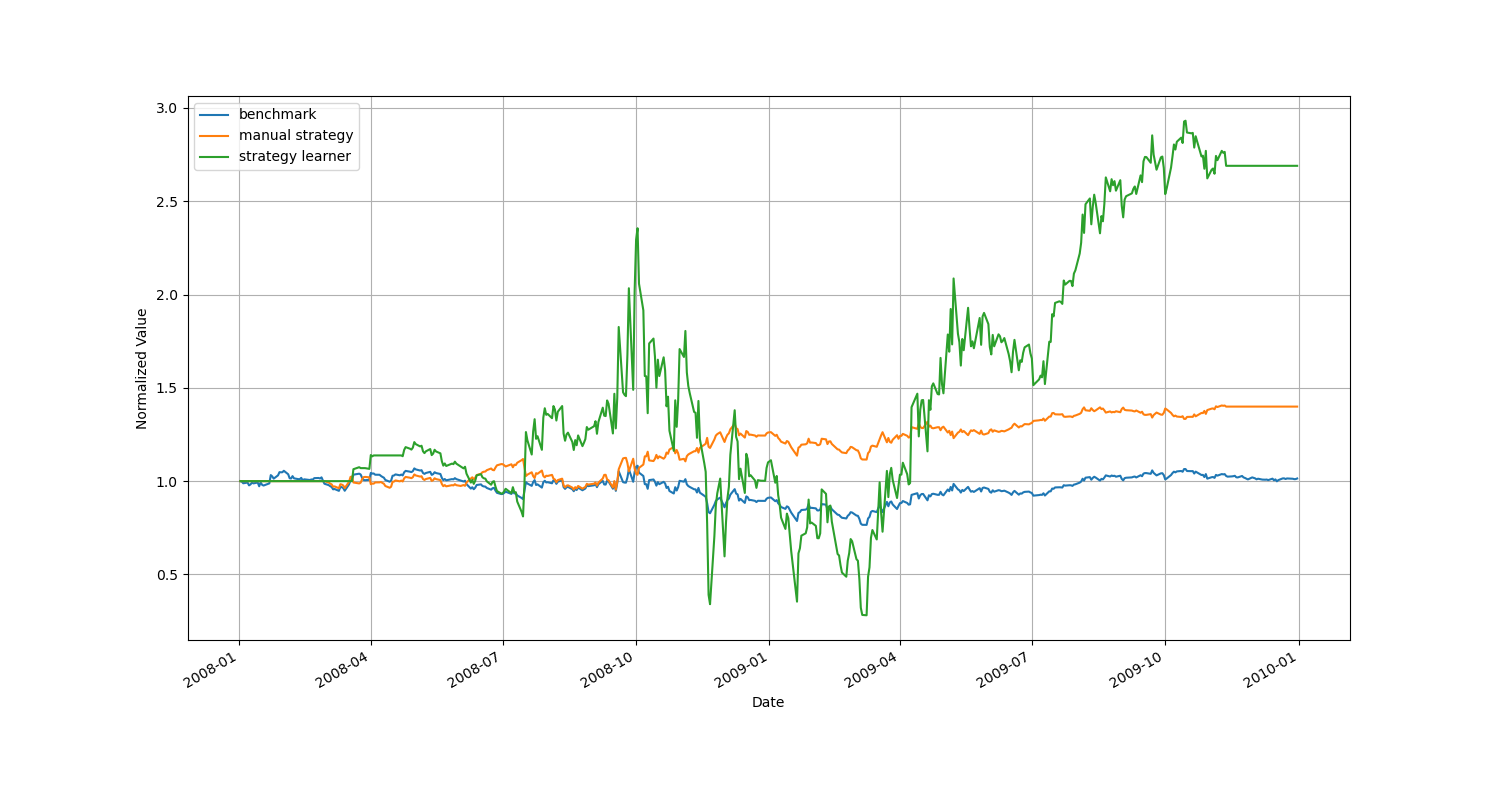
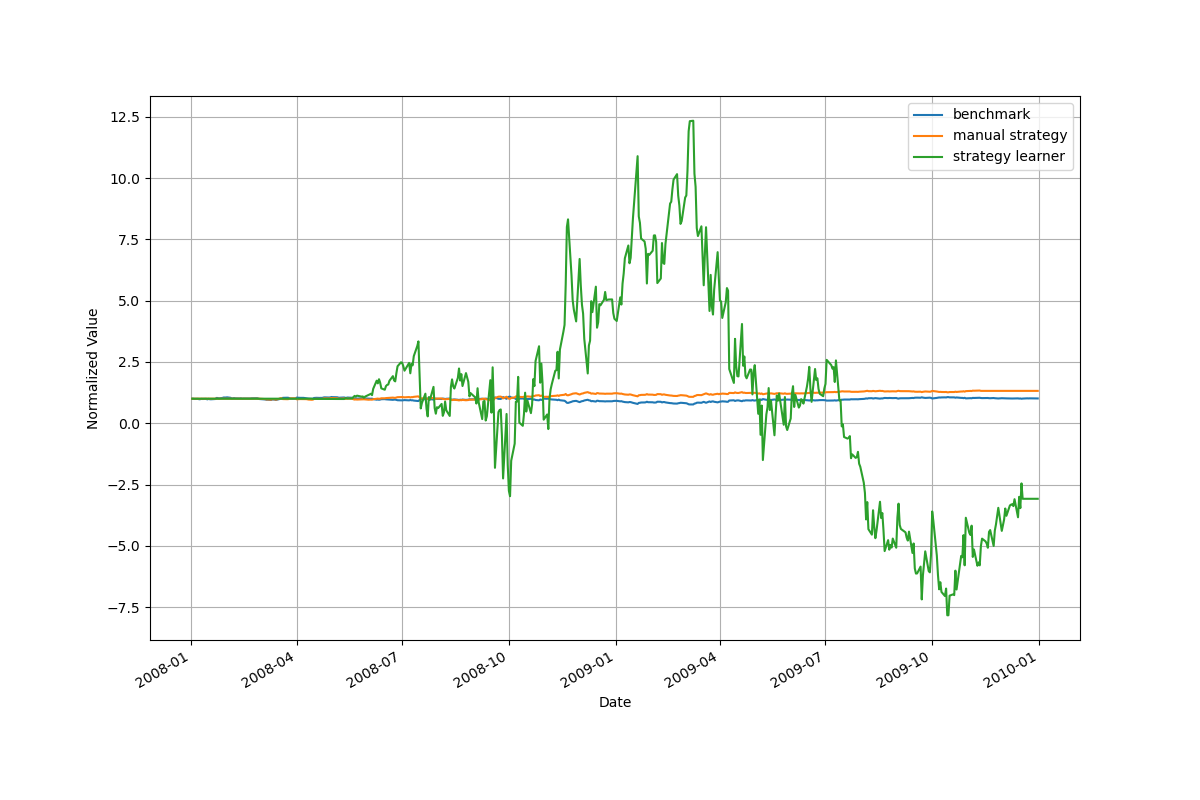
wip fixing bugs

diff --git a/strategy_evaluation/StrategyLearner.py b/strategy_evaluation/StrategyLearner.py
@@ -39,7 +39,6 @@ import numpy as np
 
 
 
-
 class StrategyLearner(object):
     """  		  	   		     		  		  		    	 		 		   		 		  
     A strategy learner that can learn a trading policy using the same indicators used in ManualStrategy.  		  	   		     		  		  		    	 		 		   		 		  
@@ -67,7 +66,9 @@ class StrategyLearner(object):
         self.commission = commission
         # self.learner = q.QLearner(alpha=0.2, rar=0.9, radr=0.999, num_states=self.num_bins ** 4, num_actions=3, dyna=0)
         # self.learner = q.QLearner(alpha=0.2, gamma=0.5, rar=0.5, radr=0.99, num_states=self.num_bins ** 3, num_actions=3, dyna=0)
-        self.learner = q.QLearner(num_states=self.num_bins**2 * 3, num_actions=2, dyna=1000)
+
+        # self.learner = q.QLearner(num_states=self.num_bins**2 * 3, num_actions=2, dyna=1000)
+        self.learner = q.QLearner(alpha=0.5, gamma=0.5, rar=0.5, radr=0.99, num_states=self.num_bins ** 2 * 3 * 2, num_actions=3, dyna=1000)
 
         self.sym = None
         self.price_data = None
@@ -141,7 +142,7 @@ class StrategyLearner(object):
     def update_position(self, action):
         if action == 0:
             trade = -1000 - 1000 * self.position
-            self.position = -1
+            self.position = 0
         elif action == 1:
             trade = 1000 - 1000 * self.position
             self.position = 1
@@ -174,32 +175,46 @@ class StrategyLearner(object):
         price_data = ut.get_data([symbol], pd.date_range(sd, ed), addSPY=True)
         self.setup(pd.DataFrame(price_data[symbol]))
 
-        for i in range(0, 1):
-            date = self.states.first_valid_index()
-            s0 = int(self.states[date])
-            a = self.learner.querysetstate(s0)
+        states_df = pd.DataFrame(self.states.loc[self.states.first_valid_index():])
+        p = price_data[self.sym][self.states.first_valid_index()]
+        a = 2
+        for row in states_df.iterrows():
+            date = row[0]
+            p_prime = price_data[self.sym][date]
+            delta = p_prime - p
+            r = (self.position*2-1) * delta
+            if a != 2:  # trade made, pay fees
+                r -= self.commission
+                r -= abs(self.impact * p_prime)
+
+            s = int(self.states[date]) + (self.position * self.num_bins ** 2 * 3)
+            a = self.learner.query(s, r)
             self.update_position(a)
-            p = price_data[self.sym][date]
-            date += dt.timedelta(days=1)
+            p = p_prime
 
-            date_final = self.states.last_valid_index()
-            while date <= date_final:
-                if date in price_data[self.sym]:
-                    p_prime = price_data[self.sym][date]
-                    delta = p_prime - p
-                    r = self.position * delta
-                    # if r > 0:
-                    #     r = 1
-                    # elif r < 0:
-                    #     r = -1
-                    # else:
-                    #     r = 0
-
-                    s = int(self.states[date])
-                    a = self.learner.query(s, r)
-                    self.update_position(a)
-                    p = p_prime
-                date += dt.timedelta(days=1)
+        # for i in range(0, 1):
+        #     date = self.states.first_valid_index()
+        #     s0 = int(self.states[date])
+        #     a = self.learner.querysetstate(s0)
+        #     self.update_position(a)
+        #     p = price_data[self.sym][date]
+        #     date += dt.timedelta(days=1)
+        #
+        #     date_final = self.states.last_valid_index()
+        #     while date <= date_final:
+        #         if date in price_data[self.sym]:
+        #             p_prime = price_data[self.sym][date]
+        #             delta = p_prime - p
+        #             r = self.position * delta
+        #             if a != 2: # trade made
+        #                 r -= self.commission
+        #                 r -= abs(self.impact * p_prime)
+        #
+        #             s = int(self.states[date])
+        #             a = self.learner.query(s, r)
+        #             self.update_position(a)
+        #             p = p_prime
+        #         date += dt.timedelta(days=1)
   		  	   		     		  		  		    	 		 		   		 		  
     # this method should use the existing policy and test it against new data  		  	   		     		  		  		    	 		 		   		 		  
     def testPolicy(  		  	   		     		  		  		    	 		 		   		 		  
@@ -249,7 +264,18 @@ class StrategyLearner(object):
                 if trade != 0:
                     output['Date'].append(date - dt.timedelta(days=1))
                     output['Trade'].append(trade)
+
+
+        # output['Trade'] = []
+        # output['Date'] = []
+
         trades = pd.DataFrame(data=output['Trade'], index=output['Date'], columns=[symbol])
+
+        if len(trades.values) == 0:
+            date0 = self.price_data.index[0]
+            val0 = 2000
+            new_df = pd.DataFrame([val0], [date0], columns=[symbol])
+            trades = trades.append(new_df)
         return trades  		  	   		     		  		  		    	 		 		   		 		  
   		  	   		     		  		  		    	 		 		   		 		  
   		  	   		     		  		  		    	 		 		   		 		  

diff --git a/strategy_evaluation/testproject.py b/strategy_evaluation/testproject.py
@@ -12,19 +12,35 @@ def author():
 	return 'tkim338'
 
 if __name__ == "__main__":
-	# experiment1.run()
+	experiment1.run()
 	# experiment2.run()
-	man = ms.ManualStrategy()
-	in_test = man.in_sample_test()
-	out_test = man.out_sample_test()
-
-	in_test_val = in_test.values
-	out_test_val = out_test.values
-	plt.clf()
-	plt.figure(figsize=(15,8))
-	plt.plot(in_test_val)
-	plt.plot(out_test_val)
-	plt.legend(['In-sample performance', 'Out-of-sample performance'])
-	plt.xlabel('Time from start [day]')
-	plt.ylabel('Normalized Value (relative to benchmark)')
-	plt.savefig('in_out_comparison.png')
+	# man = ms.ManualStrategy()
+	# in_test, in_ret_bm, in_ret_man = man.in_sample_test()
+	# out_test, out_ret_bm, out_ret_man = man.out_sample_test()
+	#
+	# print(['In-sample, benchmark cumulative return: ', in_ret_bm[0]])
+	# print(['In-sample, benchmark mean daily return: ', in_ret_bm[1]])
+	# print(['In-sample, benchmark std. dev. of daily return: ', in_ret_bm[2]])
+	# print('')
+	# print(['In-sample, manual strategy cumulative return: ', in_ret_man[0]])
+	# print(['In-sample, manual strategy mean daily return: ', in_ret_man[1]])
+	# print(['In-sample, manual strategy std. dev. of daily return: ', in_ret_man[2]])
+	# print('')
+	# print(['Out-of-sample, benchmark cumulative return: ', out_ret_bm[0]])
+	# print(['Out-of-sample, benchmark mean daily return: ', out_ret_bm[1]])
+	# print(['Out-of-sample, benchmark std. dev. of daily return: ', out_ret_bm[2]])
+	# print('')
+	# print(['Out-of-sample, manual strategy cumulative return: ', out_ret_man[0]])
+	# print(['Out-of-sample, manual strategy mean daily return: ', out_ret_man[1]])
+	# print(['Out-of-sample, manual strategy std. dev. of daily return: ', out_ret_man[2]])
+	#
+	# in_test_val = in_test.values
+	# out_test_val = out_test.values
+	# plt.clf()
+	# plt.figure(figsize=(15,8))
+	# plt.plot(in_test_val)
+	# plt.plot(out_test_val)
+	# plt.legend(['In-sample performance', 'Out-of-sample performance'])
+	# plt.xlabel('Time from start [day]')
+	# plt.ylabel('Normalized Value (relative to benchmark)')
+	# plt.savefig('in_out_comparison.png')

diff --git a/strategy_evaluation/ManualStrategy.py b/strategy_evaluation/ManualStrategy.py
@@ -152,24 +152,23 @@ class ManualStrategy:
                 output_plot.plot([index, index], [y_min, y_max], 'k', linewidth=1)
 
         plt.savefig(filename)
-        return vals_man['manual strategy'] / vals_bm['benchmark']
+        output_df = vals_man['manual strategy'] / vals_bm['benchmark']
+        output_df = output_df.fillna(method='bfill')
+        output_df = output_df.fillna(method='ffill')
+        ret_bm = msc.compute_ret(vals_bm)
+        ret_man = msc.compute_ret(vals_man)
+        return output_df, ret_bm, ret_man
 
     def in_sample_test(self):
         sym = 'JPM'
         start_date = dt.datetime(2008, 1, 1)
         end_date = dt.datetime(2009, 12, 31)
         filename = 'in-sample-test.png'
-        df = self.sample_test(sym, start_date, end_date, filename)
-        df = df.fillna(method='bfill')
-        df = df.fillna(method='ffill')
-        return df
+        return self.sample_test(sym, start_date, end_date, filename)
 
     def out_sample_test(self):
         sym = 'JPM'
         start_date = dt.datetime(2010, 1, 1)
         end_date = dt.datetime(2011, 12, 31)
         filename = 'out-sample-test.png'
-        df = self.sample_test(sym, start_date, end_date, filename)
-        df = df.fillna(method='bfill')
-        df = df.fillna(method='ffill')
-        return df
+        return self.sample_test(sym, start_date, end_date, filename)

diff --git a/strategy_evaluation/experiment2.py b/strategy_evaluation/experiment2.py
@@ -31,7 +31,7 @@ def run():
 	output_df_list = []
 	impacts = [0, 0.005, 0.01, 0.1]
 	for imp in impacts:
-		learner = sl.StrategyLearner()
+		learner = sl.StrategyLearner(impact=imp)
 		learner.add_evidence(symbol=sym, sd=start_date, ed=end_date)
 		trades_sl = learner.testPolicy(symbol=sym, sd=start_date, ed=end_date, sv=100000)
 		vals_sl = msc.compute_portvals(trades_sl, start_val=100000, commission=0, impact=imp)
@@ -47,7 +47,7 @@ def run():
 	output = pd.DataFrame([vals_bm['benchmark'], output_df_list[0]['impact: '+str(impacts[0])], output_df_list[1]['impact: '+str(impacts[1])], output_df_list[2]['impact: '+str(impacts[2])], output_df_list[3]['impact: '+str(impacts[3])]]).transpose()
 	output = output.fillna(method='ffill')
 	output = output.fillna(method='bfill')
-	output_plot = output.plot(figsize=(15,8))
+	output_plot = output.plot(figsize=(12,8))
 	output_plot.set_xlabel('Date')
 	output_plot.set_ylabel('Normalized Value')
 	output_plot.grid(b=True, which='both', axis='both')

diff --git a/strategy_evaluation/marketsimcode.py b/strategy_evaluation/marketsimcode.py
@@ -51,7 +51,9 @@ def compute_portvals(
 				holdings[sym] += trade
 			else:
 				holdings[sym] = trade
-			holdings['cash'] -= trade * sym_val * (1 + impact)
+			# holdings['cash'] -= trade * sym_val * (1 + impact)
+			holdings['cash'] -= trade * sym_val
+			holdings['cash'] -= abs(trade) * sym_val * impact
 		return holdings
 
 	def get_portfolio_value(curr_holdings, date):
@@ -85,6 +87,18 @@ def compute_portvals(
 
 	rv = pd.DataFrame(index=portvals.index, data=portvals.values)
 	return rv
+
+def compute_ret(port_vals):
+	values = port_vals.values
+	ret_cum = values[-1][0]/values[0][0]
+	ret_daily = []
+	prev_val = values[0]
+	for val in values:
+		ret_daily.append((val-prev_val)/val)
+		prev_val = val
+	ret_daily_mean = np.mean(ret_daily)
+	ret_daily_std = np.std(ret_daily)
+	return ret_cum, ret_daily_mean, ret_daily_std
 
 if __name__ == "__main__":
 	# test_code()

diff --git a/strategy_evaluation/experiment1.py b/strategy_evaluation/experiment1.py
@@ -49,7 +49,7 @@ def run():
 	output = pd.DataFrame([vals_bm['benchmark'], vals_man['manual strategy'], vals_sl['strategy learner']]).transpose()
 	output = output.fillna(method='ffill')
 	output = output.fillna(method='bfill')
-	output_plot = output.plot(figsize=(15,8))
+	output_plot = output.plot(figsize=(12,8))
 	output_plot.set_xlabel('Date')
 	output_plot.set_ylabel('Normalized Value')
 	output_plot.grid(b=True, which='both', axis='both')
